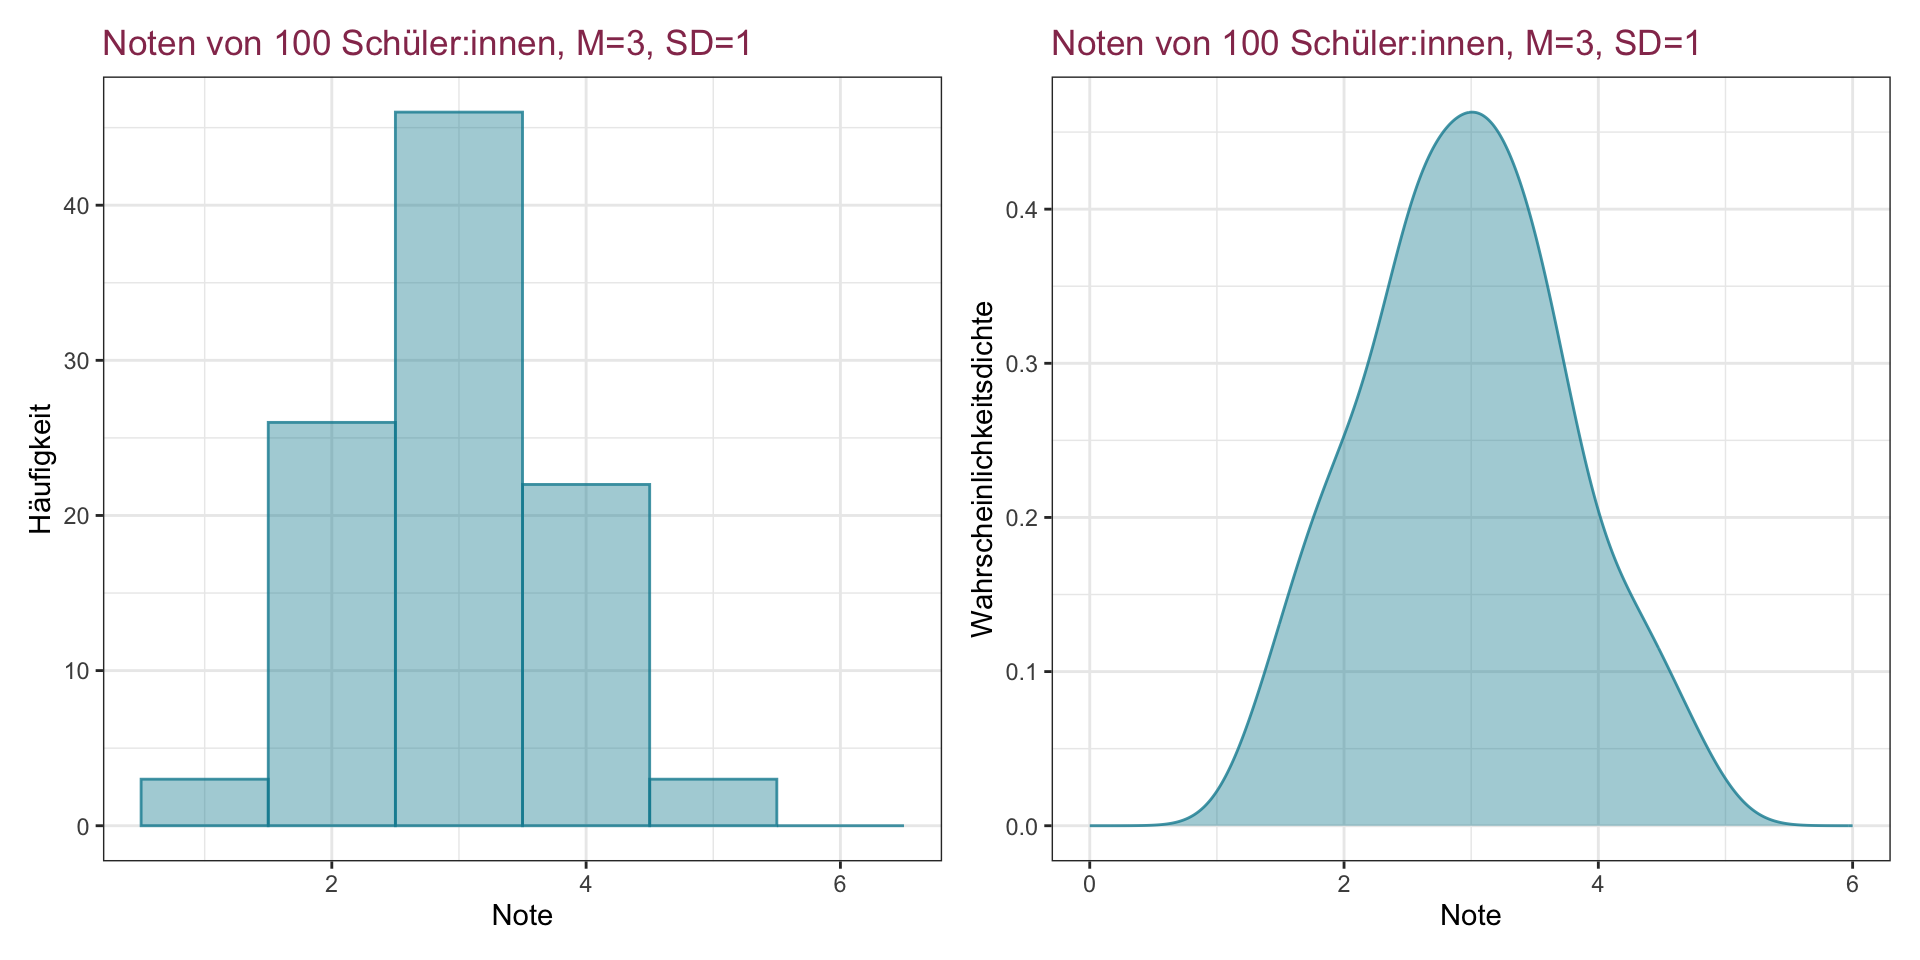
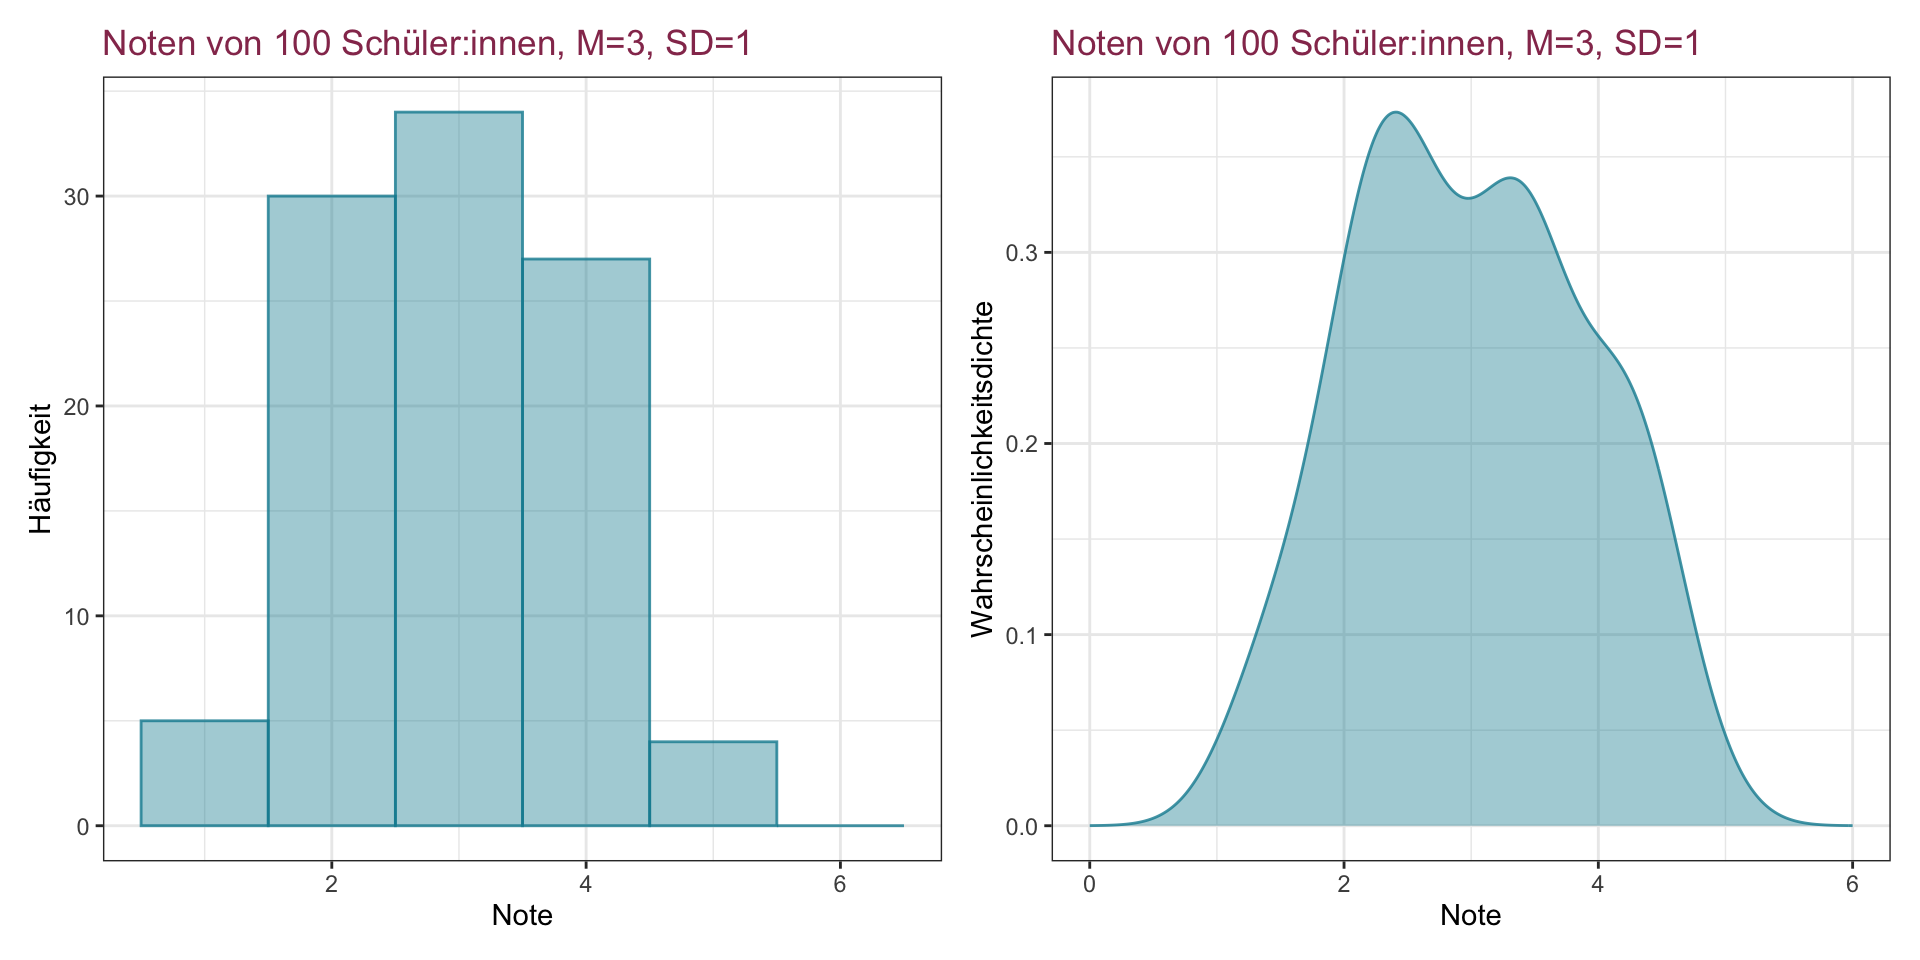
Fehler Woche 5

diff --git a/docs/Sitzung_3.html b/docs/Sitzung_3.html
@@ -270,106 +270,106 @@ Eva Scheel
 <div class="cell">
 <div class="cell-output cell-output-stdout">
 <pre><code>    groesse_cm
-1        136.3
-2        146.4
-3        136.2
-4        135.8
-5        160.1
-6        143.8
-7        148.4
-8        147.9
-9        138.1
-10       147.0
-11       137.7
-12       148.7
-13       133.5
-14       130.2
-15       148.6
-16       145.0
-17       140.2
-18       130.8
-19       152.7
-20       144.7
-21       133.9
-22       150.8
-23       132.2
-24       118.2
-25       144.3
-26       137.2
-27       127.1
-28       140.5
-29       149.4
-30       157.9
-31       156.8
-32       154.3
-33       145.7
-34       140.1
+1        146.7
+2        165.1
+3        132.5
+4        142.9
+5        136.0
+6        128.4
+7        129.7
+8        122.9
+9        125.4
+10       146.6
+11       155.4
+12       115.5
+13       143.8
+14       121.7
+15       155.3
+16       149.6
+17       142.6
+18       136.9
+19       133.5
+20       121.1
+21       138.4
+22       129.4
+23       140.8
+24       134.2
+25       153.6
+26       137.1
+27       140.3
+28       130.4
+29       130.9
+30       145.4
+31       139.6
+32       149.9
+33       149.7
+34       143.4
 35       154.3
-36       127.4
-37       115.2
-38       138.3
-39       136.1
-40       146.7
-41       143.8
-42       127.7
-43       149.1
-44       144.1
-45       151.3
-46       155.3
-47       148.9
-48       143.5
-49       160.4
-50       154.9
-51       138.0
-52       133.9
-53       144.2
-54       149.4
-55       151.8
-56       145.2
-57       153.7
-58       124.7
-59       129.3
-60       152.9
-61       150.4
-62       129.5
-63       141.6
-64       135.3
-65       153.6
-66       138.1
-67       151.7
-68       137.2
-69       154.3
-70       142.2
-71       129.6
-72       145.3
-73       119.5
-74       129.2
-75       142.0
-76       155.2
-77       140.7
-78       149.3
-79       158.7
-80       136.5
-81       131.4
-82       148.2
-83       140.0
-84       148.2
-85       147.2
-86       136.1
-87       130.8
-88       155.1
-89       148.3
-90       137.5
-91       134.2
-92       142.4
-93       143.8
-94       129.0
-95       131.9
-96       143.8
-97       129.4
-98       138.0
-99       144.7
-100      124.9</code></pre>
+36       140.7
+37       128.2
+38       147.3
+39       137.2
+40       127.8
+41       120.9
+42       138.5
+43       154.1
+44       128.7
+45       133.4
+46       135.0
+47       145.9
+48       142.5
+49       138.8
+50       173.6
+51       133.8
+52       144.8
+53       149.3
+54       137.3
+55       146.7
+56       154.6
+57       155.0
+58       135.4
+59       126.5
+60       127.9
+61       149.3
+62       139.9
+63       130.6
+64       151.1
+65       144.6
+66       145.3
+67       134.0
+68       135.4
+69       137.9
+70       119.3
+71       142.8
+72       154.6
+73       129.3
+74       136.6
+75       134.3
+76       131.0
+77       130.0
+78       124.0
+79       147.1
+80       136.7
+81       127.1
+82       144.1
+83       126.1
+84       149.6
+85       141.0
+86       138.8
+87       136.3
+88       131.9
+89       135.4
+90       161.7
+91       128.2
+92       136.8
+93       136.8
+94       135.3
+95       157.4
+96       125.1
+97       127.7
+98       139.8
+99       135.5
+100      142.0</code></pre>
 </div>
 </div>
 </div><div class="column">
@@ -378,10 +378,10 @@ Eva Scheel
 <pre><code>[1] "Anzahl Schüler:innen: 100"</code></pre>
 </div>
 <div class="cell-output cell-output-stdout">
-<pre><code>[1] "Höchstwert: 115.2"</code></pre>
+<pre><code>[1] "Höchstwert: 115.5"</code></pre>
 </div>
 <div class="cell-output cell-output-stdout">
-<pre><code>[1] "Tiefstwert: 160.4"</code></pre>
+<pre><code>[1] "Tiefstwert: 173.6"</code></pre>
 </div>
 </div>
 </div></div>
@@ -394,7 +394,7 @@ Eva Scheel
 <div class="cell">
 <div class="code-copy-outer-scaffold"><div class="sourceCode cell-code" id="cb5"><pre class="sourceCode numberSource r number-lines code-with-copy"><code class="sourceCode r"><span id="cb5-1"><a></a><span class="fu">mean</span>(heights<span class="sc">$</span>groesse_cm)</span></code></pre></div><button title="Copy to Clipboard" class="code-copy-button"><i class="bi"></i></button></div>
 <div class="cell-output cell-output-stdout">
-<pre><code>[1] 141.854</code></pre>
+<pre><code>[1] 138.833</code></pre>
 </div>
 </div>
 <p>Bezeichnung: <span class="math inline">\(M=`m`\)</span> oder <span class="math inline">\(\bar{x}\)</span></p>
@@ -422,21 +422,21 @@ Eva Scheel
 </div>
 <div class="code-copy-outer-scaffold"><div class="sourceCode cell-code" id="cb9"><pre class="sourceCode numberSource r number-lines code-with-copy"><code class="sourceCode r"><span id="cb9-1"><a></a>sorted_heights</span></code></pre></div><button title="Copy to Clipboard" class="code-copy-button"><i class="bi"></i></button></div>
 <div class="cell-output cell-output-stdout">
-<pre><code>  [1] 115.2 118.2 119.5 124.7 124.9 127.1 127.4 127.7 129.0 129.2 129.3 129.4
- [13] 129.5 129.6 130.2 130.8 130.8 131.4 131.9 132.2 133.5 133.9 133.9 134.2
- [25] 135.3 135.8 136.1 136.1 136.2 136.3 136.5 137.2 137.2 137.5 137.7 138.0
- [37] 138.0 138.1 138.1 138.3 140.0 140.1 140.2 140.5 140.7 141.6 142.0 142.2
- [49] 142.4 143.5 143.8 143.8 143.8 143.8 144.1 144.2 144.3 144.7 144.7 145.0
- [61] 145.2 145.3 145.7 146.4 146.7 147.0 147.2 147.9 148.2 148.2 148.3 148.4
- [73] 148.6 148.7 148.9 149.1 149.3 149.4 149.4 150.4 150.8 151.3 151.7 151.8
- [85] 152.7 152.9 153.6 153.7 154.3 154.3 154.3 154.9 155.1 155.2 155.3 156.8
- [97] 157.9 158.7 160.1 160.4</code></pre>
+<pre><code>  [1] 115.5 119.3 120.9 121.1 121.7 122.9 124.0 125.1 125.4 126.1 126.5 127.1
+ [13] 127.7 127.8 127.9 128.2 128.2 128.4 128.7 129.3 129.4 129.7 130.0 130.4
+ [25] 130.6 130.9 131.0 131.9 132.5 133.4 133.5 133.8 134.0 134.2 134.3 135.0
+ [37] 135.3 135.4 135.4 135.4 135.5 136.0 136.3 136.6 136.7 136.8 136.8 136.9
+ [49] 137.1 137.2 137.3 137.9 138.4 138.5 138.8 138.8 139.6 139.8 139.9 140.3
+ [61] 140.7 140.8 141.0 142.0 142.5 142.6 142.8 142.9 143.4 143.8 144.1 144.6
+ [73] 144.8 145.3 145.4 145.9 146.6 146.7 146.7 147.1 147.3 149.3 149.3 149.6
+ [85] 149.6 149.7 149.9 151.1 153.6 154.1 154.3 154.6 154.6 155.0 155.3 155.4
+ [97] 157.4 161.7 165.1 173.6</code></pre>
 </div>
 </div>
 <div class="cell">
 <div class="code-copy-outer-scaffold"><div class="sourceCode cell-code" id="cb11"><pre class="sourceCode numberSource r number-lines code-with-copy"><code class="sourceCode r"><span id="cb11-1"><a></a><span class="fu">median</span>(heights<span class="sc">$</span>groesse_cm)</span></code></pre></div><button title="Copy to Clipboard" class="code-copy-button"><i class="bi"></i></button></div>
 <div class="cell-output cell-output-stdout">
-<pre><code>[1] 143.65</code></pre>
+<pre><code>[1] 137.25</code></pre>
 </div>
 </div>
 
@@ -463,9 +463,9 @@ Eva Scheel
 <div class="cell-output cell-output-stdout">
 <pre><code>
    Biologie      Chemie     Deutsch    Englisch Französisch  Mathematik 
-         14          19          19          15          14           9 
+         11          15          15          21          13          23 
       Musik      Physik       Sport 
-         15          21          24 </code></pre>
+         25          14          13 </code></pre>
 </div>
 </div>
 <p>Anzahl Schüler:innen pro Hobby:</p>
@@ -473,9 +473,9 @@ Eva Scheel
 <div class="cell-output cell-output-stdout">
 <pre><code>
      Backgammon       Hula_Hoop      Kanufahren Modelleisenbahn         Posaune 
-             28              23              21              28              24 
+             29              28              28              27              17 
    Seilspringen 
-             26 </code></pre>
+             21 </code></pre>
 </div>
 </div>
 <p><span class="absolute" style="font-size: 70%; color: #6f5c7dea; bottom: 10px; ">*Erfundener Datensatz!</span></p>
@@ -495,20 +495,20 @@ Eva Scheel
 <div class="cell-output cell-output-stdout">
 <pre><code>                 
                   Biologie Chemie Deutsch Englisch Französisch Mathematik Musik
-  Backgammon             3      3       3        1           5          3     2
-  Hula_Hoop              5      1       6        4           1          1     1
-  Kanufahren             1      2       3        1           2          0     3
-  Modelleisenbahn        1      5       2        1           3          4     4
-  Posaune                2      3       0        6           1          0     3
-  Seilspringen           2      5       5        2           2          1     2
+  Backgammon             4      1       6        4           1          4     1
+  Hula_Hoop              0      5       2        2           3          4     7
+  Kanufahren             3      5       0        4           5          4     4
+  Modelleisenbahn        0      3       5        3           1          5     4
+  Posaune                1      1       2        3           2          1     5
+  Seilspringen           3      0       0        5           1          5     4
                  
                   Physik Sport
-  Backgammon           4     4
-  Hula_Hoop            1     3
-  Kanufahren           5     4
-  Modelleisenbahn      4     4
-  Posaune              4     5
-  Seilspringen         3     4</code></pre>
+  Backgammon           5     3
+  Hula_Hoop            3     2
+  Kanufahren           3     0
+  Modelleisenbahn      0     6
+  Posaune              2     0
+  Seilspringen         1     2</code></pre>
 </div>
 </div>
 </section>
@@ -735,7 +735,7 @@ SD = \sqrt{\frac{\sum (x-\bar{x})^2}{n-1}}
 </div>
 </div>
 <div class="cell-output cell-output-stdout">
-<pre><code>[1] 28.51209</code></pre>
+<pre><code>[1] 31.96286</code></pre>
 </div>
 </div>
 </div></div>

diff --git a/docs/Sitzung_5.html b/docs/Sitzung_5.html
@@ -707,14 +707,15 @@ F-statistic: 10.43 on 1 and 48 DF,  p-value: 0.002235</code></pre>
 <div class="code-copy-outer-scaffold"><div class="sourceCode cell-code" id="cb24"><pre class="sourceCode numberSource r number-lines code-with-copy"><code class="sourceCode r"><span id="cb24-1"><a></a>sse <span class="ot">&lt;-</span> <span class="fu">sum</span>((<span class="fu">fitted</span>(m1) <span class="sc">-</span> sample<span class="sc">$</span>RT)<span class="sc">^</span><span class="dv">2</span>)</span>
 <span id="cb24-2"><a></a>sse.null <span class="ot">&lt;-</span> <span class="fu">sum</span>((<span class="fu">fitted</span>(m1.null) <span class="sc">-</span> sample<span class="sc">$</span>RT)<span class="sc">^</span><span class="dv">2</span>)</span>
 <span id="cb24-3"><a></a></span>
-<span id="cb24-4"><a></a><span class="dv">1</span> <span class="sc">-</span> (sse<span class="sc">/</span>sse.null)</span></code></pre></div><button title="Copy to Clipboard" class="code-copy-button"><i class="bi"></i></button></div>
+<span id="cb24-4"><a></a>r_squared <span class="ot">&lt;-</span> <span class="dv">1</span> <span class="sc">-</span> (sse<span class="sc">/</span>sse.null)</span>
+<span id="cb24-5"><a></a>r_squared</span></code></pre></div><button title="Copy to Clipboard" class="code-copy-button"><i class="bi"></i></button></div>
 <div class="cell-output cell-output-stdout">
 <pre><code>[1] 0.1785697</code></pre>
 </div>
 </div>
 <ul>
 <li>Der <span class="math inline">\(R^2\)</span> zeigt wie viel Varianz in den Daten durch das Modell erfasst wird.</li>
-<li>Hier sind 29.4% durch das Einfügen des Prädiktors Worthäufigkeit der Varianz erfasst, 70,6 % bleiben unerfasst.</li>
+<li>Hier sind 18% durch das Einfügen des Prädiktors Worthäufigkeit der Varianz erfasst, 82% bleiben unerfasst.</li>
 <li>Der <span class="math inline">\(R^2\)</span> ist des Weiteren ein Maß für die <span class="important">Effektgröße</span> (<em>effect size</em>)</li>
 <li>Die Effektgröße misst wie stark zwei Variablen voneinander abhängen</li>
 <li>Wir werden noch weitere Effektgrößen im Verlauf des Kurses kennenlernen</li>

diff --git a/docs/Sitzung_4.html b/docs/Sitzung_4.html
@@ -261,7 +261,7 @@ Eva Scheel
 <div class="cell">
 <div class="code-copy-outer-scaffold"><div class="sourceCode cell-code" id="cb1"><pre class="sourceCode numberSource r number-lines code-with-copy"><code class="sourceCode r"><span id="cb1-1"><a></a><span class="fu">mean</span>(noten_daten<span class="sc">$</span>note)</span></code></pre></div><button title="Copy to Clipboard" class="code-copy-button"><i class="bi"></i></button></div>
 <div class="cell-output cell-output-stdout">
-<pre><code>[1] 3.244</code></pre>
+<pre><code>[1] 3.323</code></pre>
 </div>
 <div class="code-copy-outer-scaffold"><div class="sourceCode cell-code" id="cb3"><pre class="sourceCode numberSource r number-lines code-with-copy"><code class="sourceCode r"><span id="cb3-1"><a></a><span class="fu">median</span>(noten_daten<span class="sc">$</span>note)</span></code></pre></div><button title="Copy to Clipboard" class="code-copy-button"><i class="bi"></i></button></div>
 <div class="cell-output cell-output-stdout">
@@ -270,12 +270,12 @@ Eva Scheel
 <div class="code-copy-outer-scaffold"><div class="sourceCode cell-code" id="cb5"><pre class="sourceCode numberSource r number-lines code-with-copy"><code class="sourceCode r"><span id="cb5-1"><a></a>noten_daten <span class="sc">|&gt;</span> <span class="fu">count</span>(note) <span class="sc">|&gt;</span> <span class="fu">arrange</span>(<span class="fu">desc</span>(n))</span></code></pre></div><button title="Copy to Clipboard" class="code-copy-button"><i class="bi"></i></button></div>
 <div class="cell-output cell-output-stdout">
 <pre><code>  note   n
-1    3 307
-2    4 283
-3    2 153
-4    5 147
-5    1 102
-6    6   8</code></pre>
+1    4 309
+2    3 272
+3    2 164
+4    5 157
+5    1  86
+6    6  12</code></pre>
 </div>
 </div>
 </div><div class="column">
